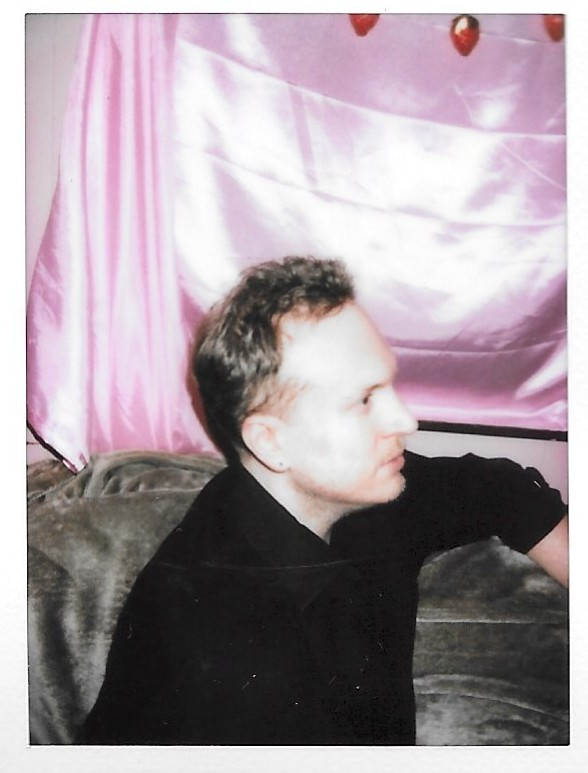
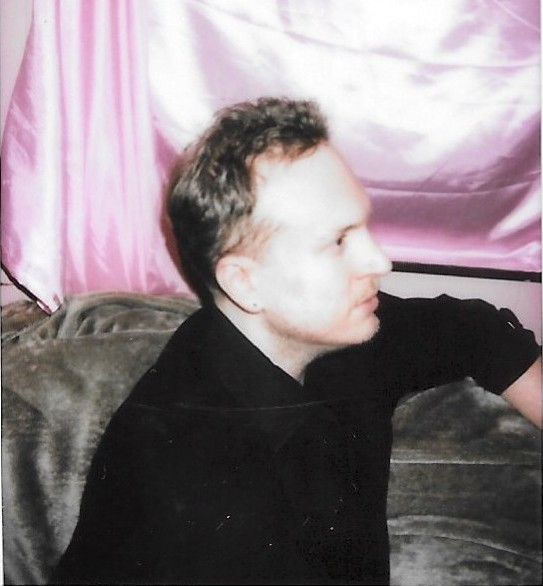
adding updates to bioSite

diff --git a/index.html b/index.html
@@ -9,6 +9,13 @@
   <!-- Responsive design  -->
   <meta charset="utf-8" />
   <meta name="viewport" content="width=device-width, initial-scale=1" />
+<script>
+  function closePanel(button) {
+    const panel = button.closest("details");
+    panel.removeAttribute("open");
+  }
+</script>
+
   <title>An Introduction to Andy</title>
 
   <!-- Google Fonts  -->
@@ -20,6 +27,8 @@
   />
 
   <link rel="stylesheet" href="biosite.css" />
+
+  
 </head>
 
 <body>
@@ -90,6 +99,10 @@
             In his quieter moments, Andy enjoys revisiting old games and watching comedies and
             science fiction. At his core, he describes himself simply and sincerely: kind, peaceful, and open.
           </p>
+          <div class="panel-close">
+           <button onclick="closePanel(this)">&mdash;</button>
+           </div>
+      
         </div>
       </details>
 
@@ -116,6 +129,11 @@
             Andy has also played baseball since he was in grade school. As an adult, he has played in amateur leagues as well. While he's not currently
             playing in a league, he loves to practice pitching and watch old baseball games.
           </p>
+
+          <div class="panel-close">
+           <button onclick="closePanel(this)">&mdash;</button>
+           </div>
+          
         </div>
       </details>
 
@@ -154,6 +172,9 @@
               <img src="images/housevacations3.jpg" alt="House Vacations once more" loading="lazy" />
             </a>
           </div>
+            <div class="panel-close">
+           <button onclick="closePanel(this)">&mdash;</button>
+           </div>
         </div>
       </details>
 
@@ -213,6 +234,9 @@
             </article>
 
           </div>
+          <div class="panel-close">
+           <button onclick="closePanel(this)">&mdash;</button>
+           </div>
         </div>
       </details>
 

diff --git a/biosite.css b/biosite.css
@@ -75,7 +75,7 @@ p {
   /* secondary background image behind panel grid */
   background:
     linear-gradient(rgba(12,12,18,0.72), rgba(12,12,18,0.72)),
-    url("images/background2.jpg");
+    url("images/background2a.jpg");
   background-size: cover;
   background-position: center;
   border: 1px solid rgba(255,255,255,0.08);
@@ -173,6 +173,26 @@ p {
 }
 
 
+/*adding button to close panel*/
+.panel-close {
+  text-align: right;
+  margin-top: 20px;
+}
+
+.panel-close button {
+  padding: 6px 14px;
+  border-radius: 6px;
+  border: none;
+  background: #111;
+  color: white;
+  cursor: pointer;
+}
+
+.panel-close button:hover {
+  background: #333;
+}
+
+
 .panel-intro {
   font-size: 1.05rem;
   text-align: left;
@@ -183,8 +203,7 @@ p {
   font-weight: 500;
 }
 
-/* Image gallery - attempting to preserve aspect ratio of images */
-/* Still working out how to format images so they are arranged more nicely */
+
 .gallery {
   margin-top: 18px;
   display: grid;
